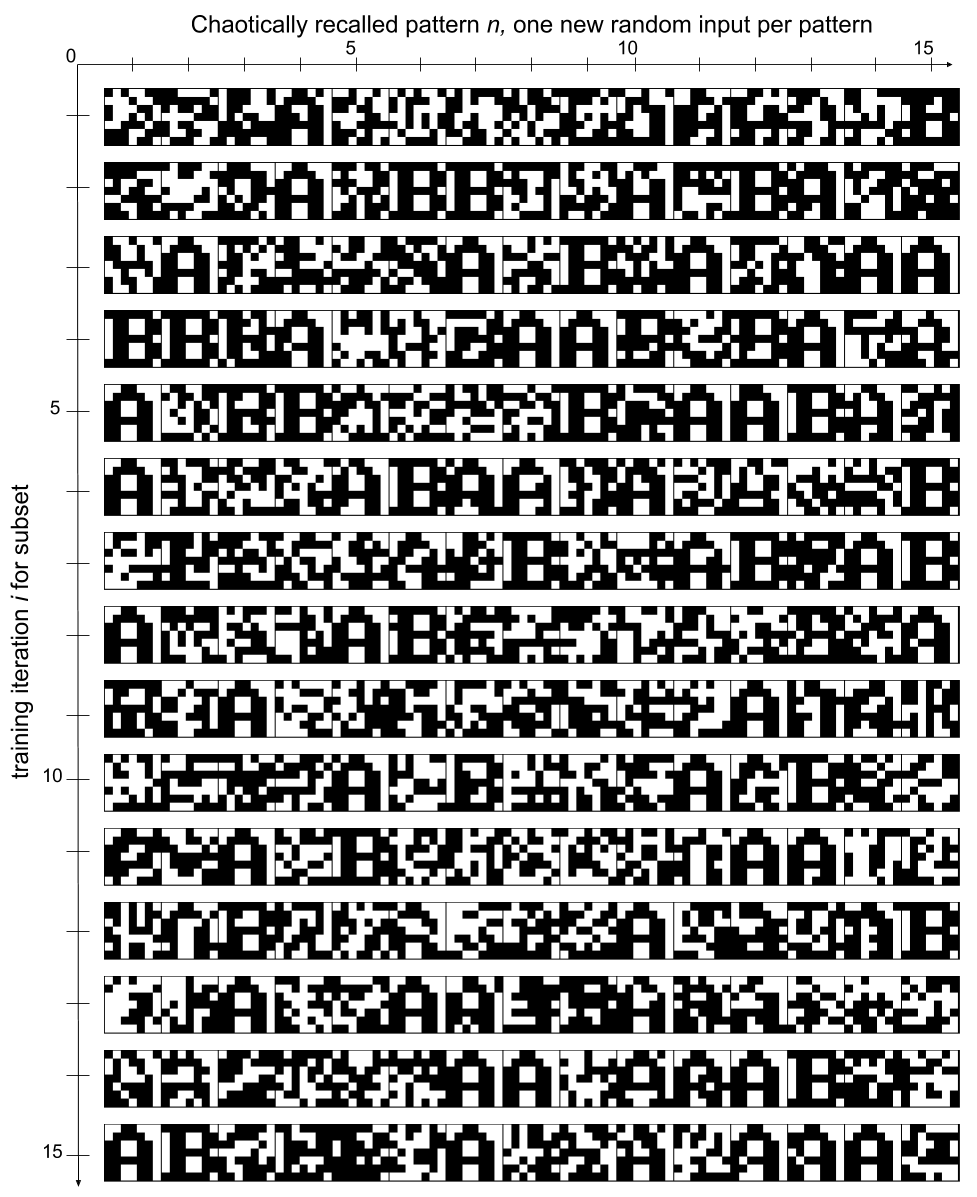
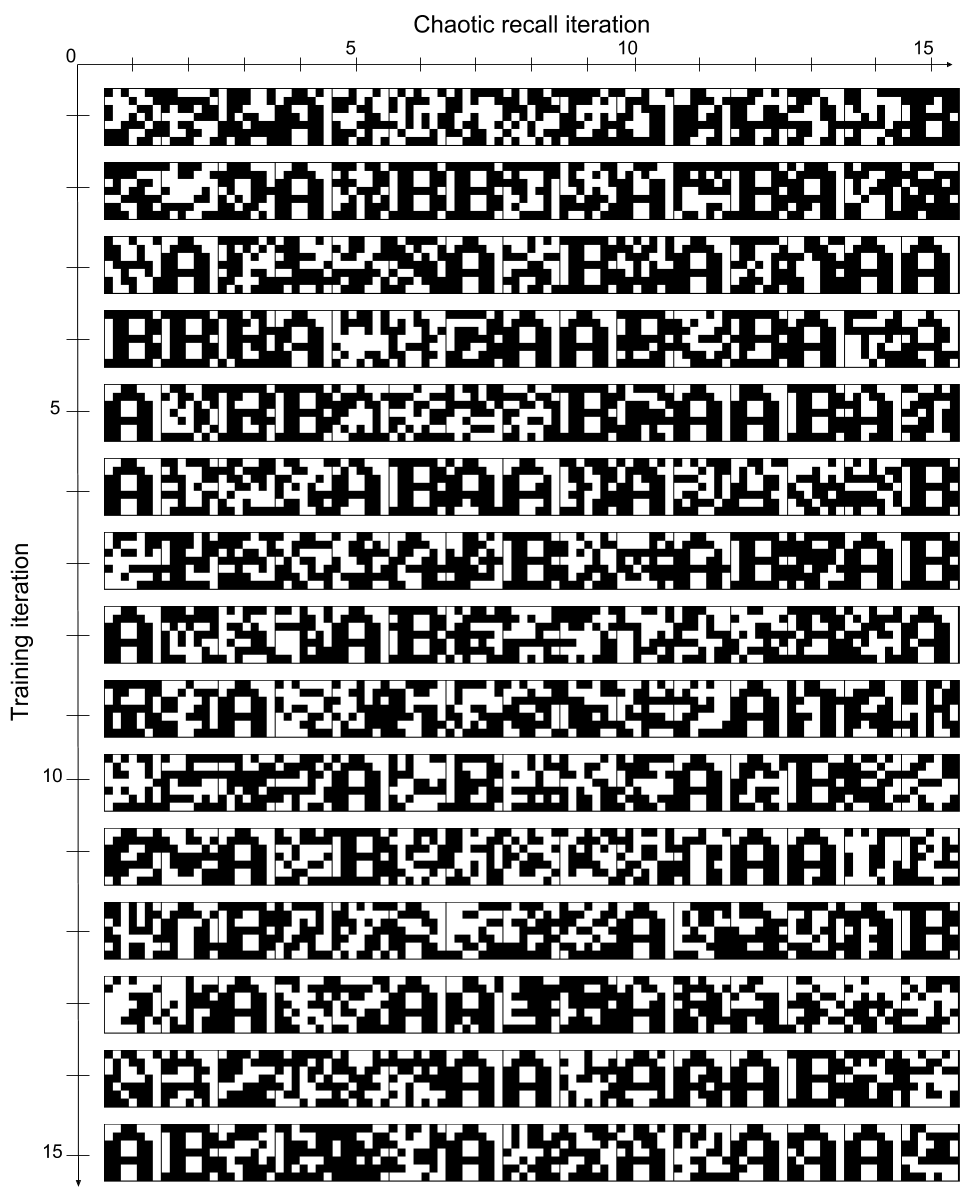
+ chpt 5. Refactored figures low level demo. chpt. 4.

Changed region(s): [[0.1842, 0.0, 0.8905, 0.0309], [0.0, 0.4018, 0.0307, 0.6491]]

diff --git a/chapter4.tex b/chapter4.tex
@@ -82,6 +82,8 @@ Unless stated otherwise, 20 trials are used per set size and model configuration
     \caption{Illustrating \textbf{the auto-associative training set} as 7x7 images, the first row being the input and the second the corresponding output of the patterns.}
 \end{figure}
 
+Lastly, I would like to clarify the following: While the reader may interpret 'perfect recall rate', and 'extraction rate' as two different measures, these are in fact considered to be the same, adapting the same conventions and notation as in the literature study, in chapter \ref{chpt:background}. The perfect recall rate, or extraction rate, denotes the number of extracted output patterns relative to the total number of output patterns in the training set, where extracted means a one to one correlation of the output patterns. Thus, perfectly recalled becomes equivalent to extracted, as a correlation of <1.0 is defined as a spuriously recalled pattern. As we will see, patterns tend to in fact be a lot more spurious, or be perfectly recalled, due to the hippocampal model's pattern completion qualities.
+Furthermore, the spurious recall rate is always included either in the same graph, or in the next figure within the section, such that the reader may easily compare the perfect extraction rate with the spurious recall rate, as well as the convergence rate. This will hopefully make it easy to infer the quality of the extraction relative to some criteria, while making the original measures readily available. For instance, the perfect recall rate relative to the sum of all recalled patterns may be $1.0$, although the extraction rate is only $50 \%$, such as for some of the attained model schemes.
 
 % ========================== EXPERIMENTS ============================          
 \section{Hippocampal module experiments}\label{section:hpc-experiments}
@@ -101,13 +103,14 @@ Instantiating the hippocampal model using the parametrization as outlined above,
 \begin{figure}
     \centering
     \includegraphics[width=10cm]{fig/AB-pattern-associations-sync-tm0-dgw25}
-    \caption{Displaying the recalled pattern for inputs A for the upper row, and B for the lower row, for every learning iteration.}
+    \caption{Displaying the \textbf{neural network recall for the training inputs after each training iteration}. Note that the origin is now in the upper left corner, time flowing downward along the y-axis. Furthermore, the first axis denotes the model recall iterations. Note that for each training iteration, the recalled model output is displayed for \textit{two} inputs, namely the two inputs of the current training subset.
+    A for the upper row, and B for the lower row, for every learning iteration.}
     \label{fig:pattern_associations_sync}
 \end{figure}
 
 \begin{figure}
     \centering
-    \includegraphics[width=10cm]{fig/AB-chaotic-recall-sync-tm0-dgw25}
+    \includegraphics[width=11cm]{fig/AB-chaotic-recall-sync-tm0-dgw25}
     \caption{Displaying the patterns which were recalled by chaotic recall - that is, for each training iteration, 15 patterns were recalled. For each pattern that was recalled, a (new) random input was generated and set as the model's input. Note also that using the same random input also would yield chaotically recalled patterns, which is also included in the trials and experiments contained later in this chapter.}
     \label{fig:chaotic_recall_sync}
 \end{figure}
@@ -135,7 +138,7 @@ However, as aggregate activity on the population level is what is studied in thi
 
 \begin{figure}
     \centering
-    \includegraphics[width=10cm]{fig/AB-chaotic-recall-async-tm0-dgw1-tau050}
+    \includegraphics[width=11cm]{fig/AB-chaotic-recall-async-tm0-dgw1-tau050}
     \caption{Displaying the chaotically recalled patterns for the same model configuration and results as displayed in figure \ref{fig:low-level-3} (asynchronous CA3-updating, a DG-weighting of 1, $\tau=0.50$, turnover between learnt sets). Note that spurious patterns diminishes very quickly, and only learnt patterns are chaotically recalled after very few iterations. This configuration seems to be capable of one-shot learning.}
     \label{fig:low-level-4}
 \end{figure}

diff --git a/chapter5.tex b/chapter5.tex
@@ -2,6 +2,26 @@
 
 \chapter{Discussion [Macro level]}\label{chpt:discussion}
 % ============================ section ===============================
+
+% \section{Summary}
+
+% \section{Research questions}
+
+\begin{itemize}
+    \item What are the limitations of pattern extraction in the hippocampal model?
+    \item How does asyncronous or synchronous CA3-neuronal simulation affect hippocampal model behaviour?
+    \item How does neuronal turnover, and a synaptic weight coefficient for the outgoing synapses of the DG impact hippocampal model behaviour?
+    \item What information seems to be inherent in the patterns extracted by chaotic recall in the hippocampal module?
+    \item Can the original training patterns be consolidated to the neocortical network by solely using chaotically recalled patterns?
+    \item Can chaotic interference be reduced in the novel dual-network memory model without pseudorehearsal?
+\end{itemize}
+
+% \section{Additional}
+
+% Kritisk, kunne vært gjort sånn og sånn... :)
+
+
+\newpage
 \textbf{Macro level}
 
 Initial experiments show that a weighting approximately similar to \citep{Wakagi2008}, i.e. about 25 times stronger connections between the DG- and CA3-layer may yield better recall and quicker convergence in the attained model. This suggests that pattern separation may be performed by the DG-layer, and confirms the hypothesis that it may be more strongly interconnected with the CA3-layer.

diff --git a/appendixD.tex b/appendixD.tex
@@ -2,7 +2,7 @@
 \addcontentsline{toc}{section}{Appendix D}
 %$\\[0.5cm]$
 
-\section*{Further experiment results}
+\section*{Additional experiment results}
 
 \begin{figure}
     \centering
